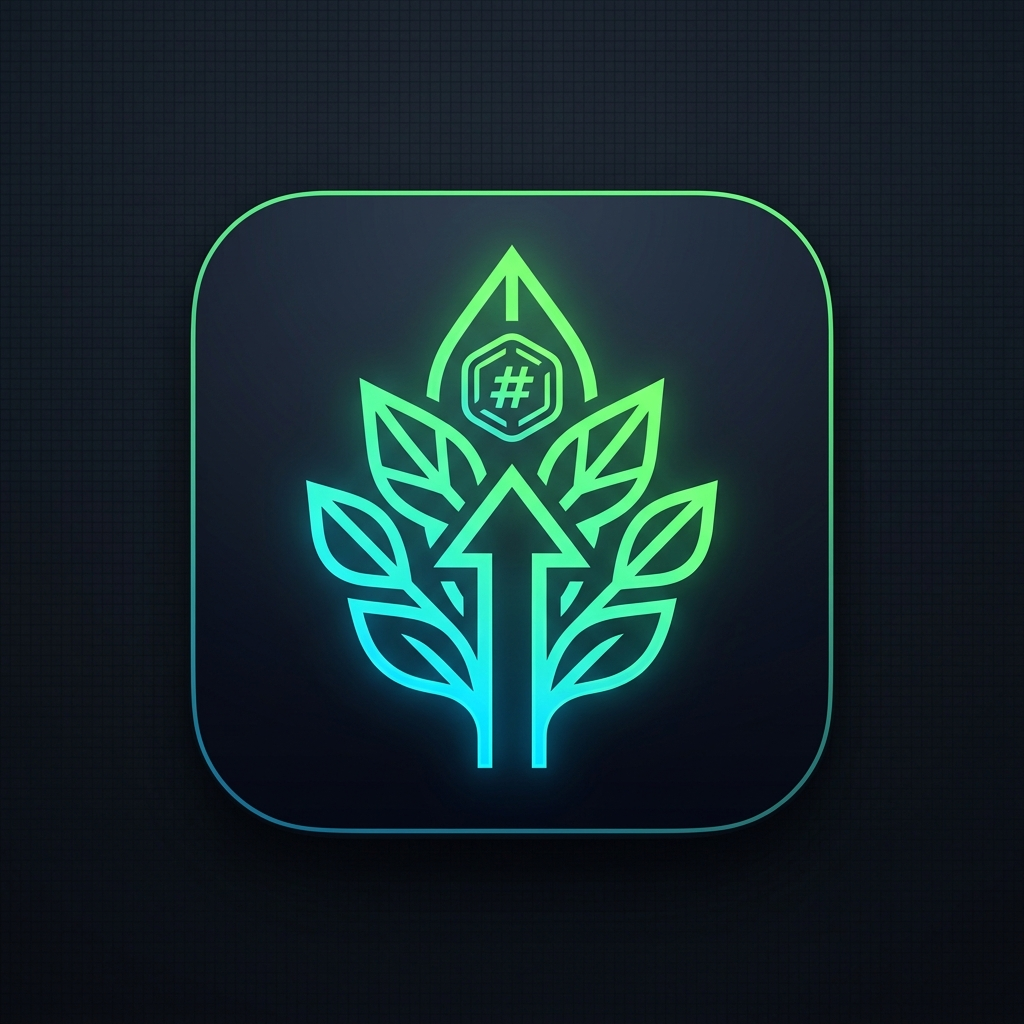
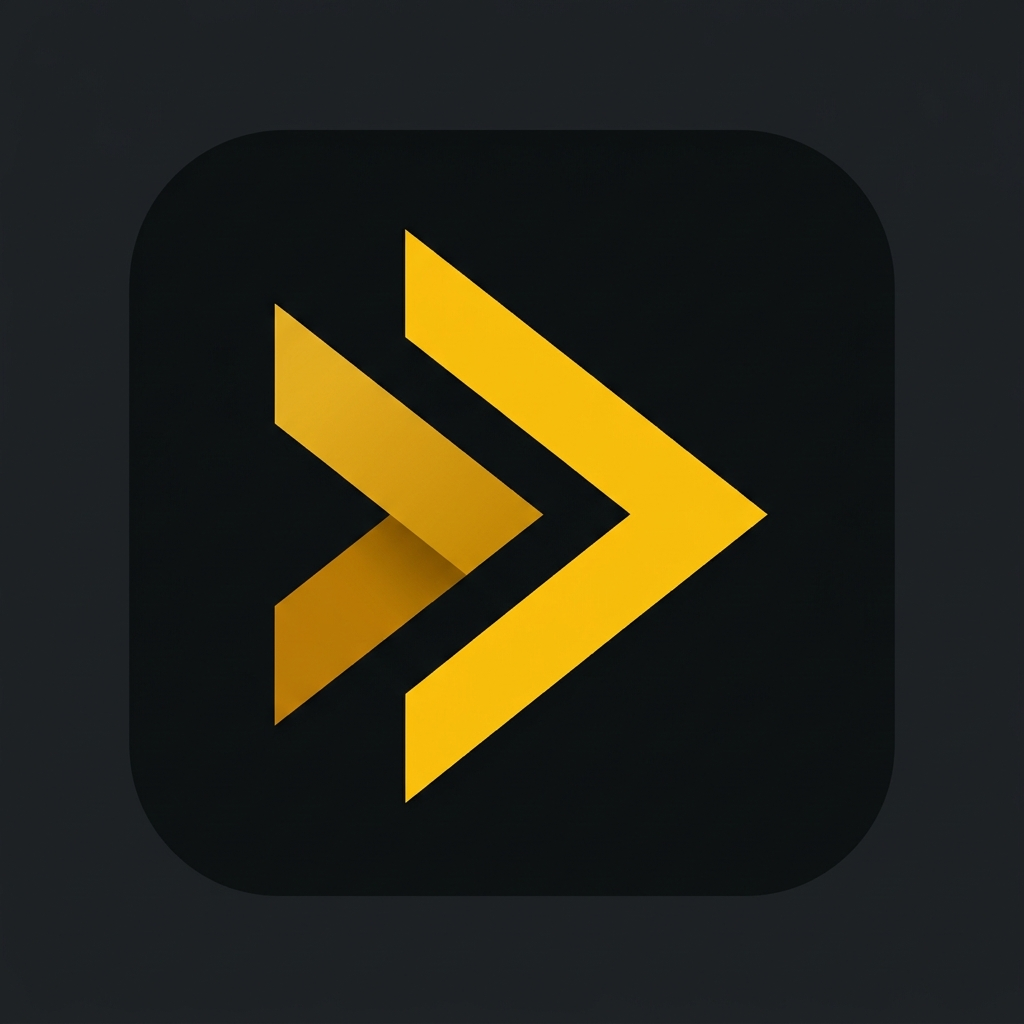
changed file name

diff --git a/src/app/manifest.ts b/src/app/manifest.ts
@@ -12,25 +12,25 @@ export default function manifest(): MetadataRoute.Manifest {
     theme_color: "#000000",
     icons: [
       {
-        src: "/api/icon?size=192",
+        src: "/icon-192x192.png",
         sizes: "192x192",
         type: "image/png",
         purpose: "any",
       },
       {
-        src: "/api/icon?size=192",
+        src: "/icon-192x192.png",
         sizes: "192x192",
         type: "image/png",
         purpose: "maskable",
       },
       {
-        src: "/api/icon?size=512",
+        src: "/icon-512x512.png",
         sizes: "512x512",
         type: "image/png",
         purpose: "any",
       },
       {
-        src: "/api/icon?size=512",
+        src: "/icon-512x512.png",
         sizes: "512x512",
         type: "image/png",
         purpose: "maskable",

diff --git a/src/lib/config.ts b/src/lib/config.ts
@@ -1,7 +1,7 @@
 export const config = {
   appName: process.env.NEXT_PUBLIC_APP_NAME || "CredFlow",
-  appShortName: process.env.NEXT_PUBLIC_APP_SHORT_NAME || "LoanTrack",
+  appShortName: process.env.NEXT_PUBLIC_APP_SHORT_NAME || "CredFlow",
   appDescription: process.env.NEXT_PUBLIC_APP_DESCRIPTION || "Professional loan collection and management platform",
-  supportContact: process.env.NEXT_PUBLIC_SUPPORT_CONTACT || "[email redacted]",
+  supportContact: process.env.NEXT_PUBLIC_SUPPORT_CONTACT || "[email redacted]",
   agentName: process.env.NEXT_PUBLIC_AGENT_NAME || "Agent",
 };